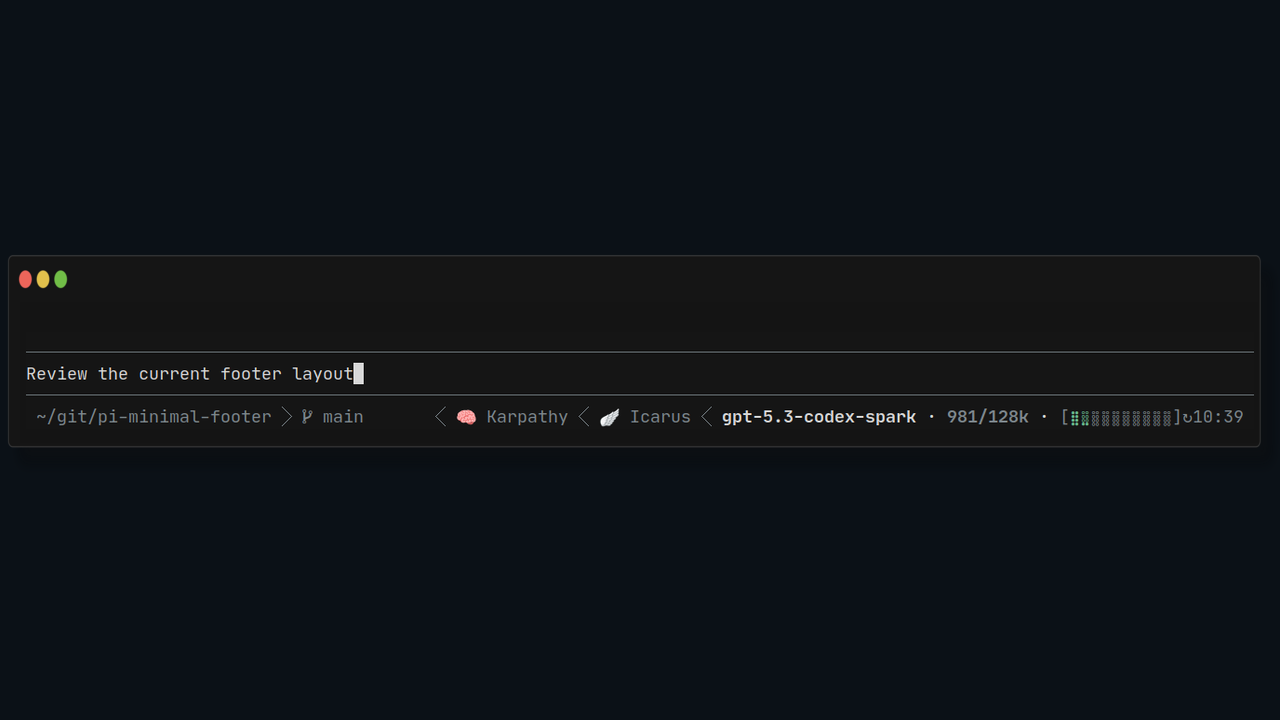
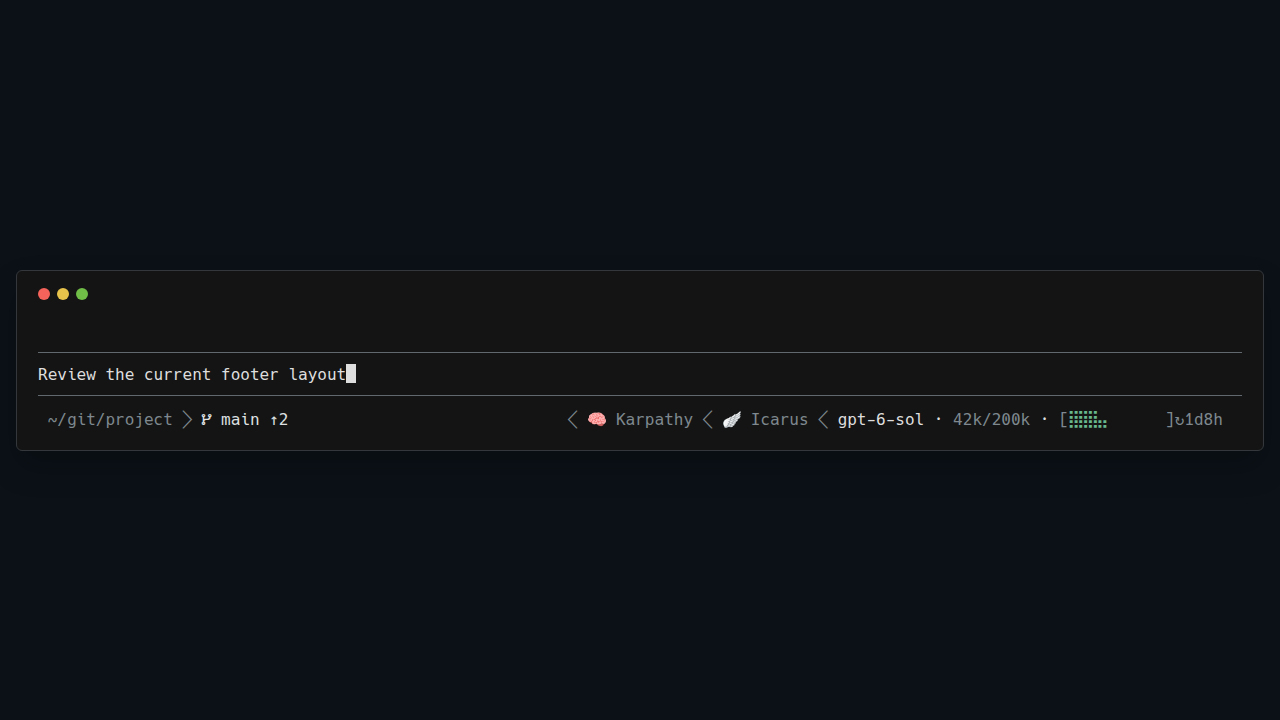
Refresh documentation and footer previews

Changed region(s): [[0.3438, 0.55, 0.9688, 0.6111], [0.0, 0.4889, 0.3125, 0.6111], [0.0, 0.3667, 0.0625, 0.4278]]

diff --git a/VISION.md b/VISION.md
@@ -9,7 +9,7 @@ The [README](README.md) is the user manual. This document records current design
 ## Layout contract
 
 - Directory and Git branch form the left group, separated by ``.
-- Each extension status is its own `` tab. Preserve the supplied text; do not invent status labels, parentheses, or pipes.
+- Each extension status is its own `` tab. Preserve the supplied text except for replacing line breaks and tabs with spaces; do not invent status labels, parentheses, or pipes.
 - Model, context, and subscription usage form the rightmost group, separated by ` · `. Model identifies the running engine; context describes its usage; the usage bar stays anchored at the right edge.
 - Powerline separators are dim. `powerlineSeparator: false` replaces them with a single space. Font availability cannot be detected reliably.
 - Measure terminal columns with `visibleWidth`, not string length. Preserve ANSI styling and wide-character accounting when truncating.
@@ -18,7 +18,7 @@ The [README](README.md) is the user manual. This document records current design
 
 Reserve the usage bar and model/context before allocating location and statuses. Statuses and location may shorten or disappear; on sufficiently narrow terminals, model/context can also shorten or disappear.
 
-Lay out other fields with a two-cell usage bar first. Grow the bar only into leftover columns, up to ten cells—never truncate another field solely to enlarge it. At extreme widths, shrink to one cell, show only the reset label, or hide usage if neither can fit. Brackets keep an empty bar's edges visible and count toward its width, but not its cell cap.
+Lay out other fields with a two-cell usage bar first, or fewer if `maxUsageBarCells` is smaller. Grow the bar only into leftover columns, up to `maxUsageBarCells` (default ten)—never truncate another field solely to enlarge it. At extreme widths, shrink to one cell, show only the reset label, or hide usage if neither can fit. Brackets keep an empty bar's edges visible and count toward its width, but not its cell cap.
 
 Two cells give 6.25% steps; ten give 1.25%. Fill rounds to the nearest eighth-cell step. Only the final partially filled cell uses an intermediate shade:
 
@@ -67,7 +67,7 @@ Display only the selected provider's shortest applicable window. Subscription us
 | Kimi Coding (`kimi-coding`) | Shortest available window; accepts used or remaining counts and week/month durations |
 | OpenCode Go (`opencode-go`) | Shortest rolling/weekly/monthly window |
 
-Reuse Pi's selected-provider credentials. Copilot uses the GitHub login token from Pi's configured agent directory or `COPILOT_GITHUB_TOKEN`. Pi 1.0.3 does not include Gemini CLI in its built-in model catalog. Do not poll custom proxy endpoints or make model requests to obtain usage.
+Reuse Pi's selected-provider credentials. Copilot uses the saved OAuth GitHub login token when applicable; otherwise it uses the credentials resolved by Pi, which can include `COPILOT_GITHUB_TOKEN`. Ambient environment tokens do not override Pi's resolved credentials. Pi 1.0.3 does not include Gemini CLI in its built-in model catalog. Do not poll custom proxy endpoints or make model requests to obtain usage.
 
 ### Refresh and failure behavior
 
@@ -88,7 +88,7 @@ The comparison with [mtrojnar/pi-usage](https://github.com/mtrojnar/pi-usage) in
 
 ## Local development
 
-Requires Node.js >=22.19.0. Local dependencies pin Pi 1.0.3; compatibility CI tests Pi 1.0.3 and 1.1.0 on Node.js 22.19.0. Provider requests are mocked. These are tested versions, not a guarantee for every intervening or future release.
+Requires Node.js >=22.19.0. Local dependencies pin Pi 1.0.3; compatibility CI is configured to test Pi 1.0.3, 1.1.0, and 1.3.0 on Node.js 22.19.0. Provider requests are mocked. These are tested versions, not a guarantee for every intervening or future release.
 
 ```bash
 npm ci
@@ -134,7 +134,7 @@ Emit after this extension's `session_start` handler has run; events before start
 
 The latest explicit action wins: `/minfooter on/off` changes the current footer and saves the preference, while this event changes only the current session. Normal refreshes never undo the choice. A new session or extension reload starts from the saved preference.
 
-Disabling restores Pi's default footer only if we still own the active footer; otherwise it leaves the active footer untouched. Enabling explicitly installs our footer and may replace another extension's footer; repeated enables while we own it do nothing. Neither action restores a previous extension's footer. A coordinating extension must choose the active footer—there is no priority stack or automatic reactivation.
+Disabling restores Pi's default footer only if we still own the active footer; otherwise it leaves the active footer untouched. Enabling explicitly installs our footer and may replace another extension's footer. Repeated enable events while we own it do nothing; `/minfooter on` reloads settings and reinstalls the footer. Neither action restores a previous extension's footer. A coordinating extension must choose the active footer—there is no priority stack or automatic reactivation.
 
 ### Code map
 

diff --git a/README.md b/README.md
@@ -9,7 +9,7 @@
 
 An opinionated, compact, one-line status bar for [Pi](https://github.com/earendil-works/pi).
 
-![Footer preview: ~/git/project   main        🧠 Karpathy  🪽 Icarus  model · 42k/200k · [⣿⣿⣿⣤      ]↻1d8h](media/preview.png)
+![Footer preview: ~/git/project   main ↑2 · 🧠 Karpathy · 🪽 Icarus · gpt-6-sol · 42k/200k · subscription usage with reset time](media/preview.png)
 
 **Left**
 
@@ -83,7 +83,7 @@ Counts require a configured upstream. Unsynced branches use normal text color; s
 
 ### Context
 
-`42k/200k` means tokens used / context window. Set `"contextAsPercentage": true` under `minFooter` to show `21.0%/200k` instead. Unknown usage shows `?`.
+`42k/200k` means tokens used / context window. Set `"contextAsPercentage": true` under `minFooter` to show `21.0%/200k` instead. Unknown token usage shows `?/200k` when the window is known, or `?` when context information is unavailable.
 
 ### Subscription usage
 
@@ -91,7 +91,7 @@ Counts require a configured upstream. Unsynced branches use normal text color; s
 
 - **Bar:** expands into spare space, using 2–10 cells by default, capped by `maxUsageBarCells`. Smaller caps and very narrow terminals may show fewer cells or only the reset label.
 - **Colors:** green below 85%, amber from 85%, red from 92%.
-- **Cached data:** dim after a refresh failure.
+- **Cached data:** dim after a refresh failure or when its reset time has passed.
 - Reset: local `↻HH:mm` through 24 hours; whole days/hours above 24 hours (`↻1d8h`); whole days above 10 days (`↻12d`). Remaining durations round down. No reset reported means bar only.
 - Shows the shortest available usage window for the selected provider. Missing credentials, unsupported/local models, or absent limits hide the usage bar. Custom proxy endpoints are not polled.
 - Virtual/routed models show model and context usage, but no subscription bar.
